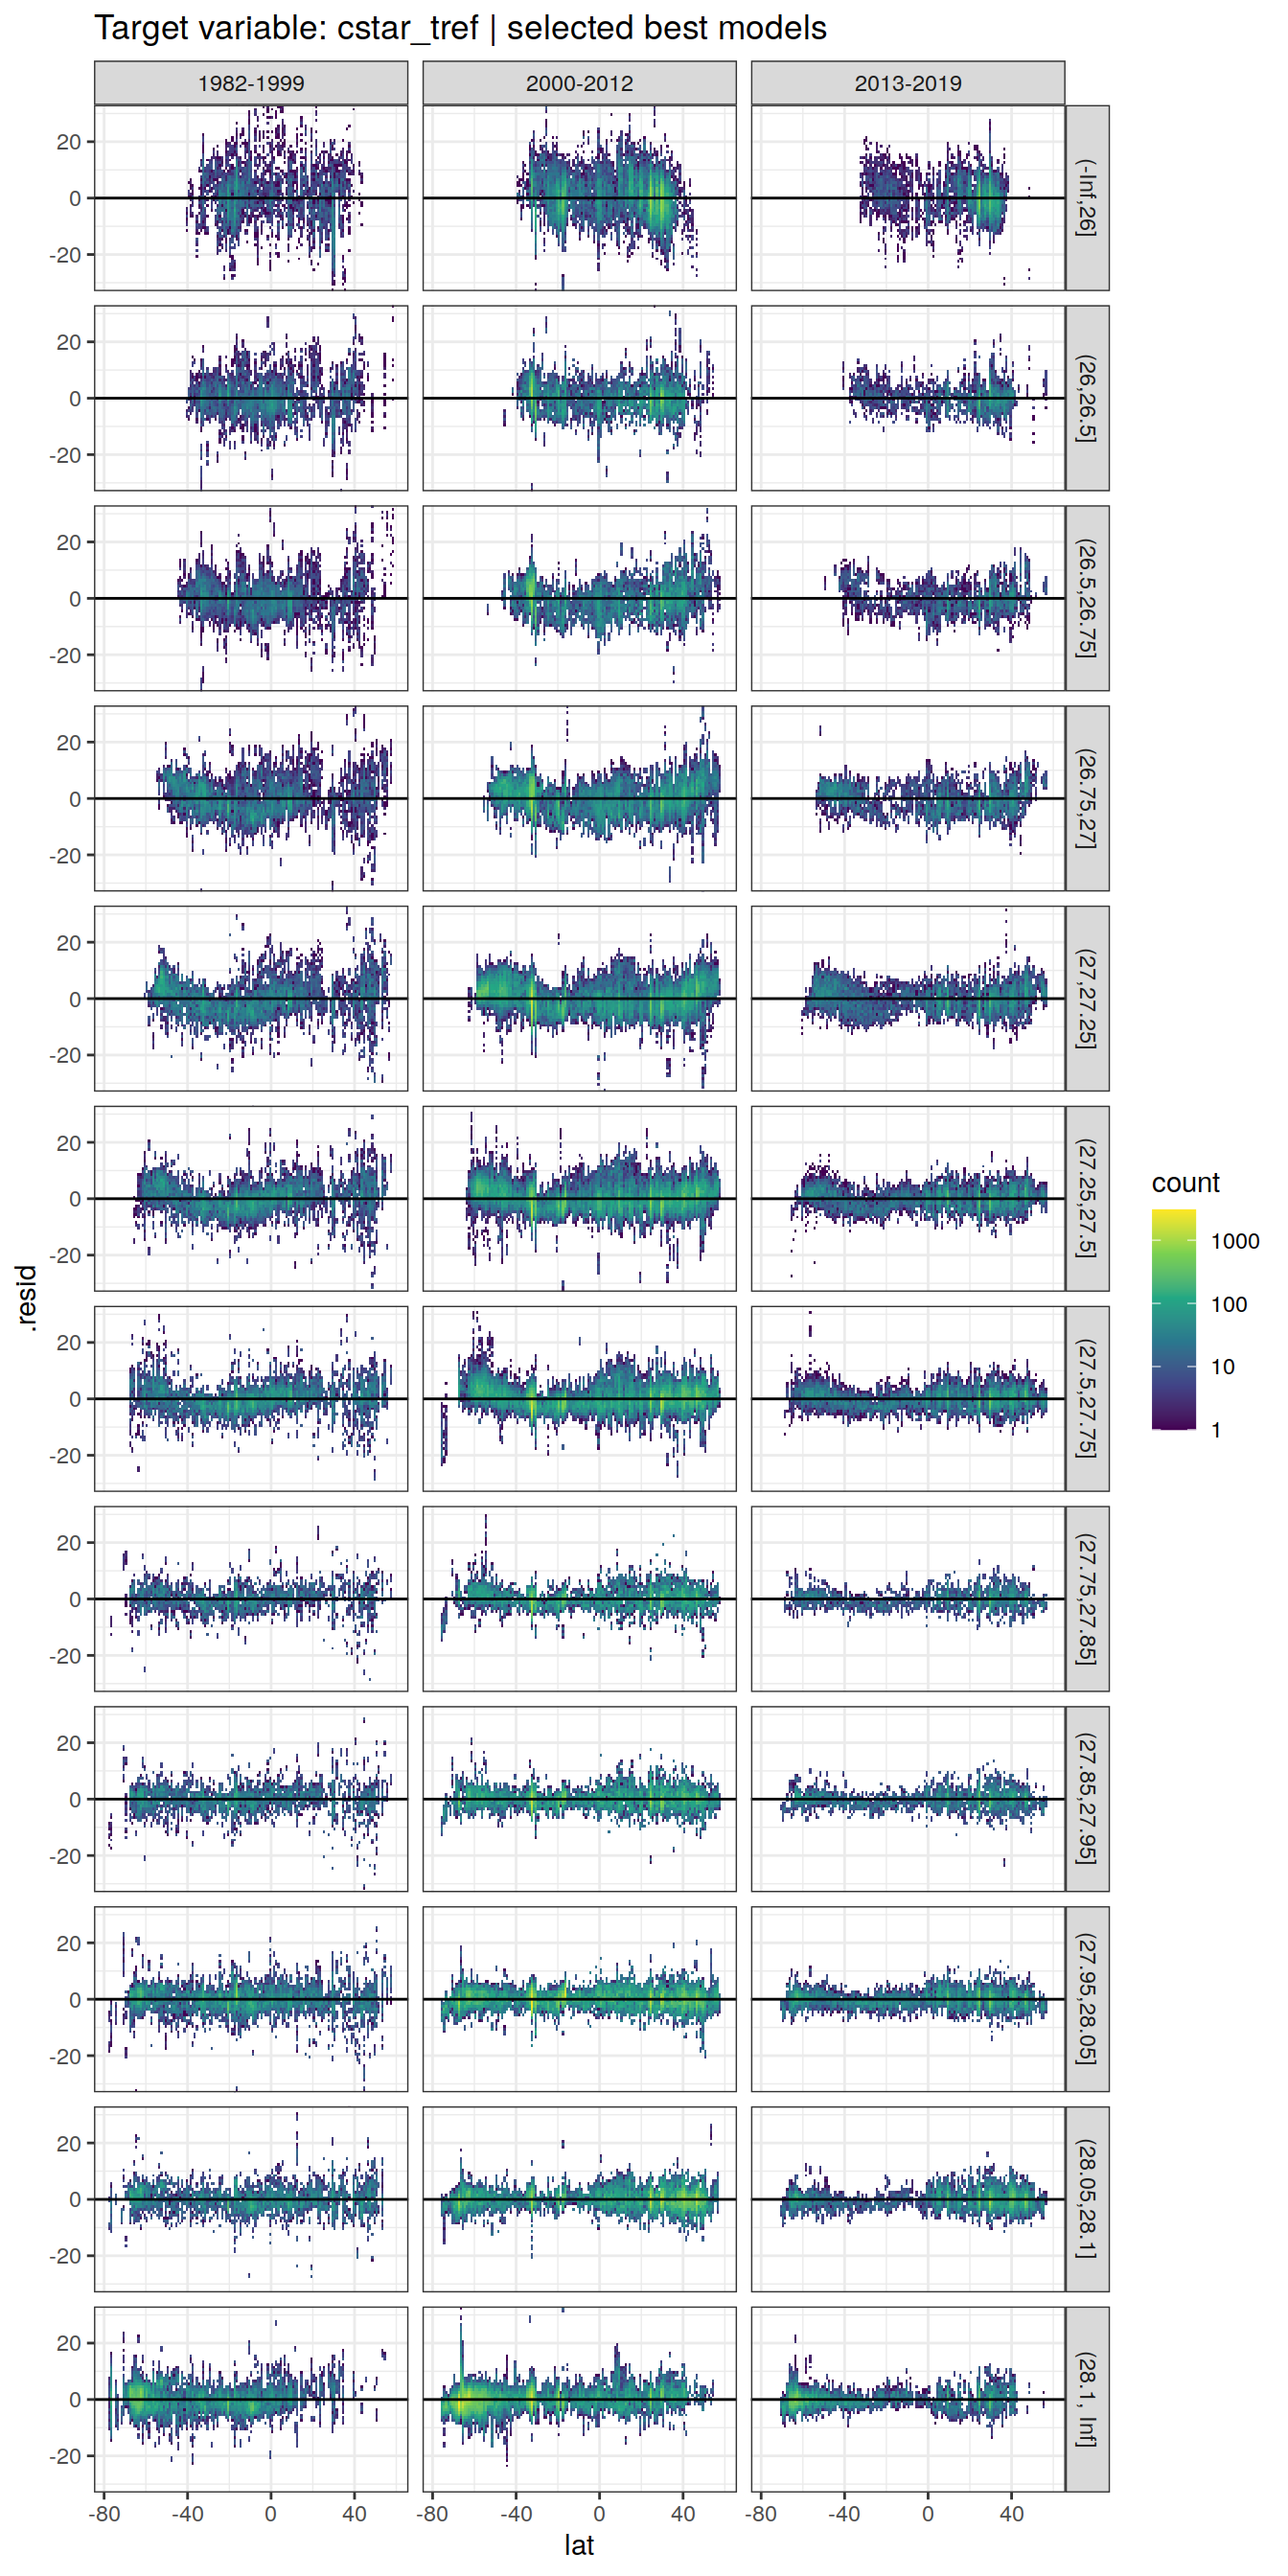
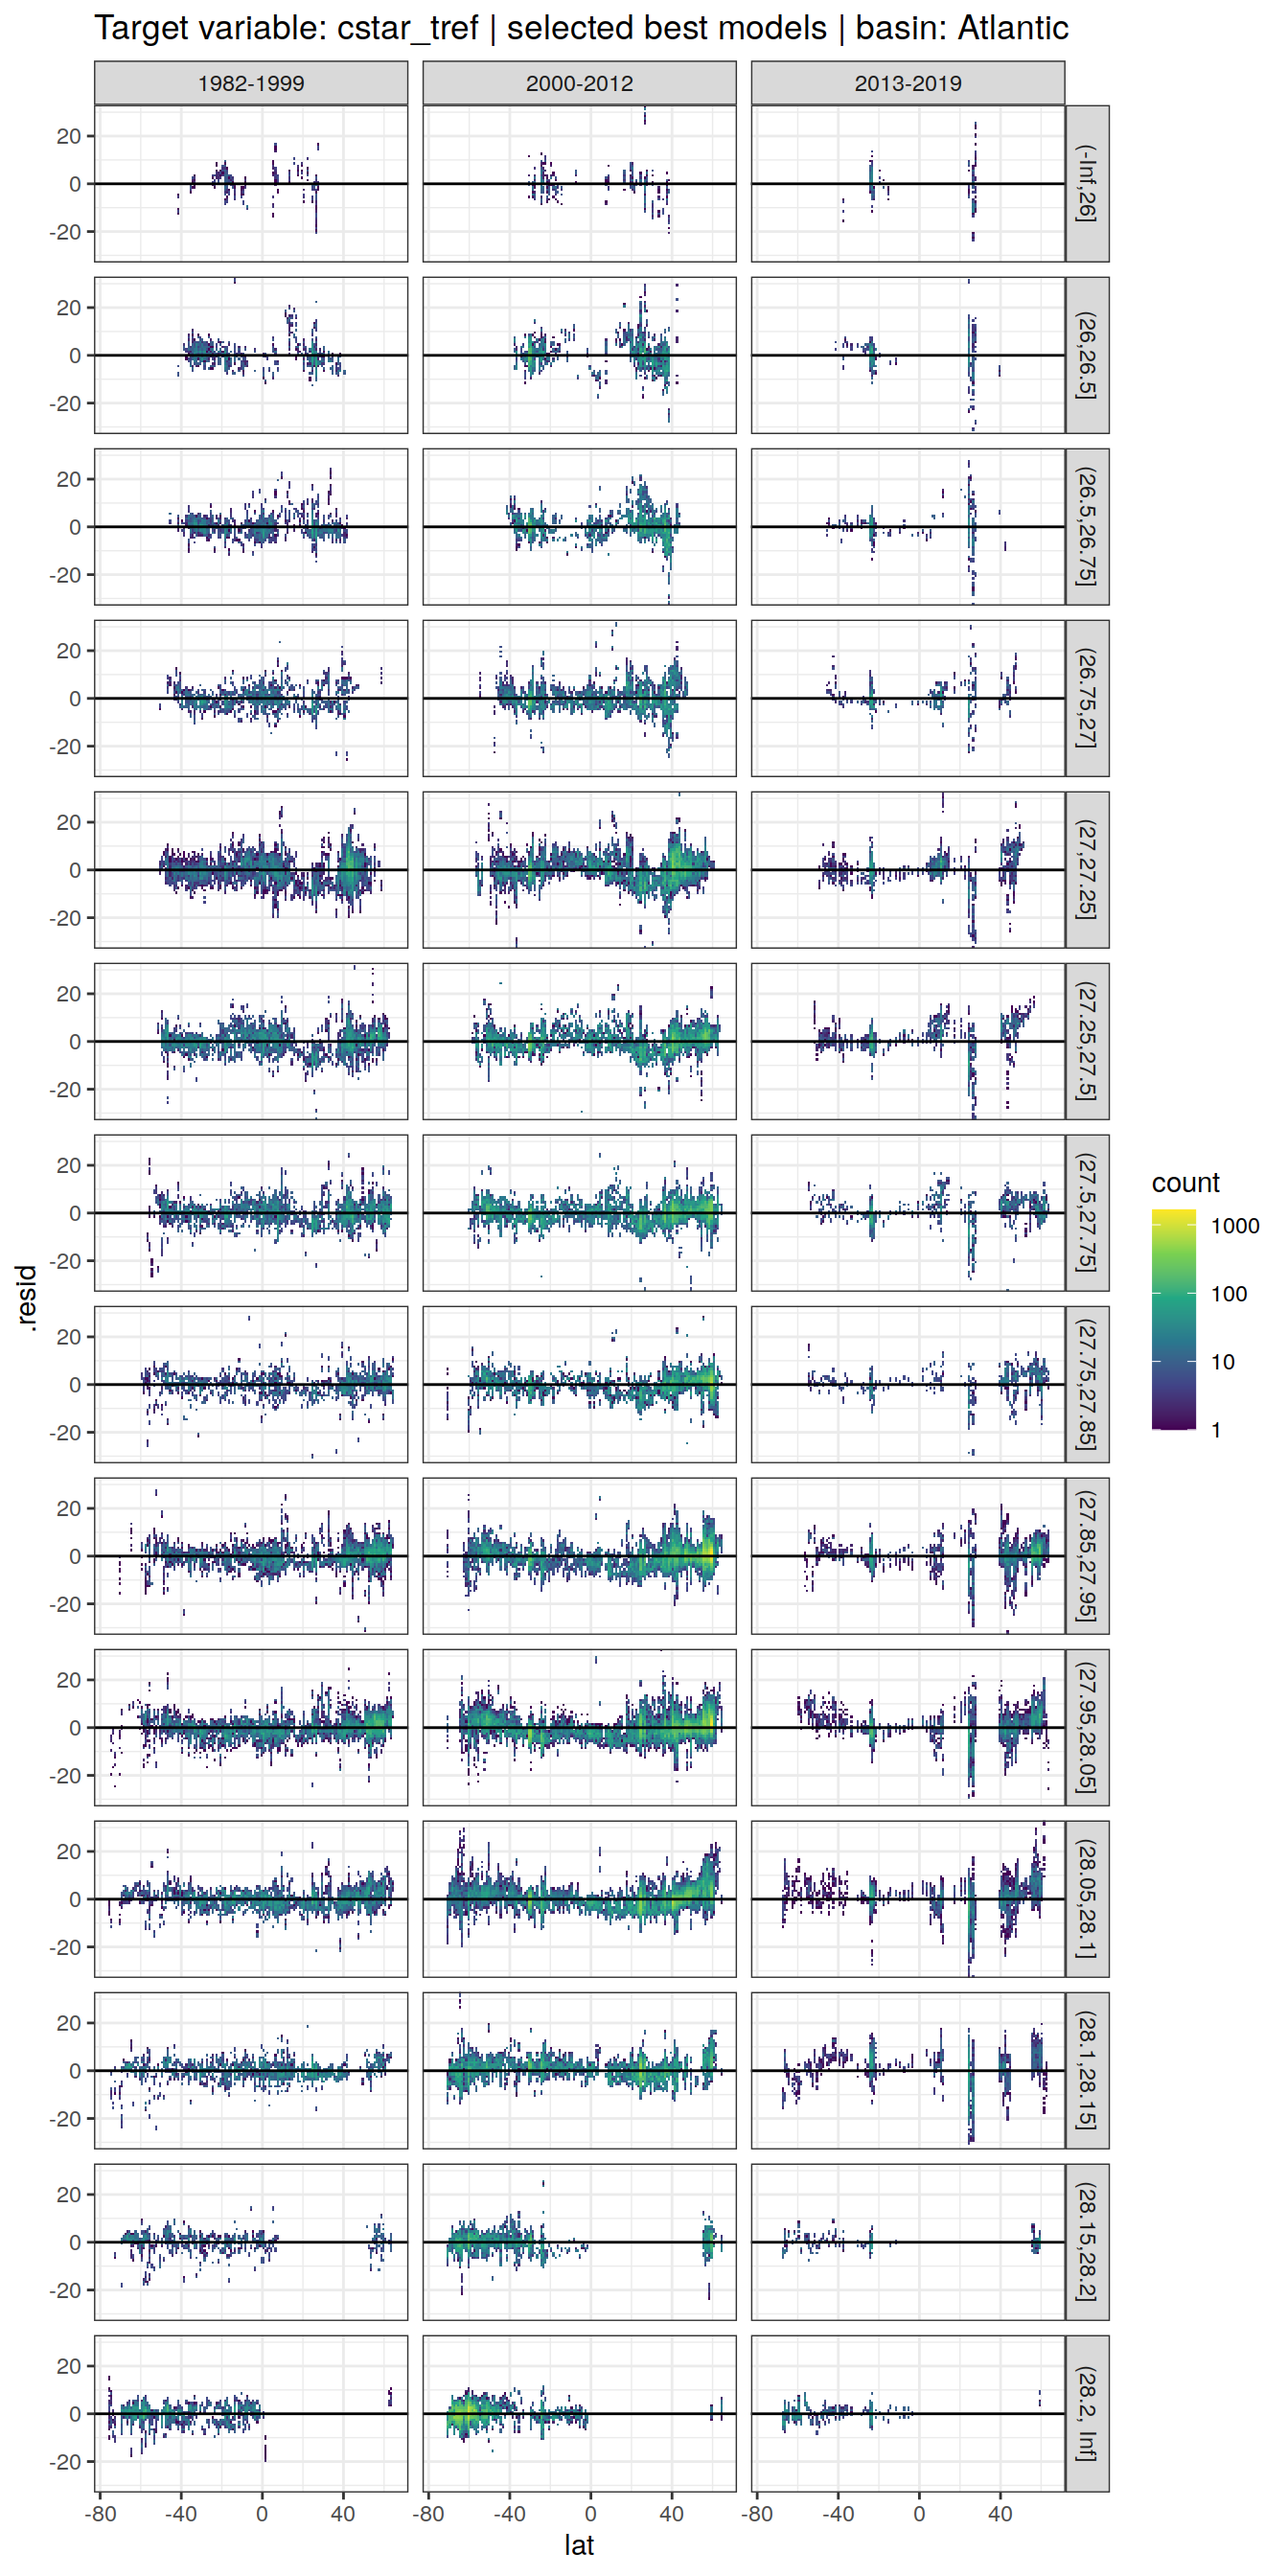
Build site.

diff --git a/docs/eMLR_model_fitting.html b/docs/eMLR_model_fitting.html
@@ -604,16 +604,16 @@ This reproducible <a href="http://rmarkdown.rstudio.com">R Markdown</a> analysis
 <div class="panel panel-default">
 <div class="panel-heading">
 <p class="panel-title">
-<a data-toggle="collapse" data-parent="#workflowr-checks" href="#strongRepositoryversionstrongahrefhttpsgithubcomjensdanielmuelleremlrobsvXXXtreec45672cf9916024c7d44d9a828351bfd61f44a4btargetblankc45672ca"> <span class="glyphicon glyphicon-ok text-success" aria-hidden="true"></span> <strong>Repository version:</strong> <a href="https://github.com/jens-daniel-mueller/emlr_obs_v_XXX/tree/c45672cf9916024c7d44d9a828351bfd61f44a4b" target="_blank">c45672c</a> </a>
+<a data-toggle="collapse" data-parent="#workflowr-checks" href="#strongRepositoryversionstrongahrefhttpsgithubcomjensdanielmuelleremlrobsvXXXtree9ae7d87065c2300a53f0359a45fb2cfa3f6d5213targetblank9ae7d87a"> <span class="glyphicon glyphicon-ok text-success" aria-hidden="true"></span> <strong>Repository version:</strong> <a href="https://github.com/jens-daniel-mueller/emlr_obs_v_XXX/tree/9ae7d87065c2300a53f0359a45fb2cfa3f6d5213" target="_blank">9ae7d87</a> </a>
 </p>
 </div>
[2 lines of base64/hex data omitted]
 <div class="panel-body">
 <p>
 Great! You are using Git for version control. Tracking code development and connecting the code version to the results is critical for reproducibility.
 </p>
 <p>
-The results in this page were generated with repository version <a href="https://github.com/jens-daniel-mueller/emlr_obs_v_XXX/tree/c45672cf9916024c7d44d9a828351bfd61f44a4b" target="_blank">c45672c</a>. See the <em>Past versions</em> tab to see a history of the changes made to the R Markdown and HTML files.
+The results in this page were generated with repository version <a href="https://github.com/jens-daniel-mueller/emlr_obs_v_XXX/tree/9ae7d87065c2300a53f0359a45fb2cfa3f6d5213" target="_blank">9ae7d87</a>. See the <em>Past versions</em> tab to see a history of the changes made to the R Markdown and HTML files.
 </p>
 <p>
 Note that you need to be careful to ensure that all relevant files for the analysis have been committed to Git prior to generating the results (you can use <code>wflow_publish</code> or <code>wflow_git_commit</code>). workflowr only checks the R Markdown file, but you know if there are other scripts or data files that it depends on. Below is the status of the Git repository when the results were generated:
@@ -663,6 +663,40 @@ Message
 </tr>
 </thead>
 <tbody>
+<tr>
+<td>
+Rmd
+</td>
+<td>
+<a href="https://github.com/jens-daniel-mueller/emlr_obs_v_XXX/blob/9ae7d87065c2300a53f0359a45fb2cfa3f6d5213/analysis/eMLR_model_fitting.Rmd" target="_blank">9ae7d87</a>
+</td>
+<td>
+jens-daniel-mueller
+</td>
+<td>
+2021-02-24
+</td>
+<td>
+loop residual plots by basin
+</td>
+</tr>
+<tr>
+<td>
+html
+</td>
+<td>
+<a href="https://rawcdn.githack.com/jens-daniel-mueller/emlr_obs_v_XXX/071743d8e86476364e26746044aa47d1bf4f2c12/docs/eMLR_model_fitting.html" target="_blank">071743d</a>
+</td>
+<td>
+jens-daniel-mueller
+</td>
+<td>
+2021-02-24
+</td>
+<td>
+Build site.
+</td>
+</tr>
 <tr>
 <td>
 Rmd
@@ -18135,6 +18169,43 @@ GLODAP_augmented_best %&gt;%
   geom_bin2d() +
   scale_fill_viridis_c(trans = &quot;log10&quot;)</code></pre>
 <p><img src="figure/eMLR_model_fitting.Rmd/residual_patterns-1.png" width="672" style="display: block; margin: auto;" /></p>
+<p>
+<button type="button" class="btn btn-default btn-xs btn-workflowr btn-workflowr-fig" data-toggle="collapse" data-target="#fig-residual_patterns-1">
+Past versions of residual_patterns-1.png
+</button>
+</p>
+<div id="fig-residual_patterns-1" class="collapse">
+<div class="table-responsive">
+<table class="table table-condensed table-hover">
+<thead>
+<tr>
+<th>
+Version
+</th>
+<th>
+Author
+</th>
+<th>
+Date
+</th>
+</tr>
+</thead>
+<tbody>
+<tr>
+<td>
+<a href="https://github.com/jens-daniel-mueller/emlr_obs_v_XXX/blob/071743d8e86476364e26746044aa47d1bf4f2c12/docs/figure/eMLR_model_fitting.Rmd/residual_patterns-1.png" target="_blank">071743d</a>
+</td>
+<td>
+jens-daniel-mueller
+</td>
+<td>
+2021-02-24
+</td>
+</tr>
+</tbody>
+</table>
+</div>
+</div>
 <pre class="r"><code>i_ylim &lt;- c(-30,30)
 i_binwidth &lt;- 1
 
@@ -18153,6 +18224,43 @@ GLODAP_augmented_best %&gt;%
     )
   )</code></pre>
 <p><img src="figure/eMLR_model_fitting.Rmd/residual_patterns-2.png" width="672" style="display: block; margin: auto;" /></p>
+<p>
+<button type="button" class="btn btn-default btn-xs btn-workflowr btn-workflowr-fig" data-toggle="collapse" data-target="#fig-residual_patterns-2">
+Past versions of residual_patterns-2.png
+</button>
+</p>
+<div id="fig-residual_patterns-2" class="collapse">
+<div class="table-responsive">
+<table class="table table-condensed table-hover">
+<thead>
+<tr>
+<th>
+Version
+</th>
+<th>
+Author
+</th>
+<th>
+Date
+</th>
+</tr>
+</thead>
+<tbody>
+<tr>
+<td>
+<a href="https://github.com/jens-daniel-mueller/emlr_obs_v_XXX/blob/071743d8e86476364e26746044aa47d1bf4f2c12/docs/figure/eMLR_model_fitting.Rmd/residual_patterns-2.png" target="_blank">071743d</a>
+</td>
+<td>
+jens-daniel-mueller
+</td>
+<td>
+2021-02-24
+</td>
+</tr>
+</tbody>
+</table>
+</div>
+</div>
 <pre class="r"><code>GLODAP_augmented_best %&gt;%
   ggplot(aes(lat, .resid)) +
   geom_bin2d(binwidth = i_binwidth) +
@@ -18168,25 +18276,152 @@ GLODAP_augmented_best %&gt;%
     )
   )</code></pre>
 <p><img src="figure/eMLR_model_fitting.Rmd/residual_patterns-3.png" width="672" style="display: block; margin: auto;" /></p>
+<p>
+<button type="button" class="btn btn-default btn-xs btn-workflowr btn-workflowr-fig" data-toggle="collapse" data-target="#fig-residual_patterns-3">
+Past versions of residual_patterns-3.png
+</button>
+</p>
+<div id="fig-residual_patterns-3" class="collapse">
+<div class="table-responsive">
+<table class="table table-condensed table-hover">
+<thead>
+<tr>
+<th>
+Version
+</th>
+<th>
+Author
+</th>
+<th>
+Date
+</th>
+</tr>
+</thead>
+<tbody>
+<tr>
+<td>
+<a href="https://github.com/jens-daniel-mueller/emlr_obs_v_XXX/blob/071743d8e86476364e26746044aa47d1bf4f2c12/docs/figure/eMLR_model_fitting.Rmd/residual_patterns-3.png" target="_blank">071743d</a>
+</td>
+<td>
+jens-daniel-mueller
+</td>
+<td>
+2021-02-24
+</td>
+</tr>
+</tbody>
+</table>
+</div>
+</div>
 </div>
 <div id="by-model-domain" class="section level3" number="7.5.2">
 <h3 number="7.5.2"><span class="header-section-number">7.5.2</span> By model domain</h3>
-<pre class="r"><code>GLODAP_augmented_best %&gt;%
-  filter(basin == unique(GLODAP_augmented_best$basin)[2]) %&gt;% 
-  ggplot(aes(lat, .resid)) +
-  geom_bin2d(binwidth = i_binwidth) +
-  geom_hline(yintercept = 0, col = &quot;black&quot;) +
-  scale_fill_viridis_c(trans = &quot;log10&quot;) +
-  facet_grid(gamma_slab ~ era) +
-  coord_cartesian(ylim = i_ylim) +
-  labs(
-    title = paste(
-      &quot;Target variable:&quot;,
-      params_local$MLR_target,
-      &quot;| selected best models&quot;
-    )
-  )</code></pre>
+<pre class="r"><code># GLODAP_augmented_best %&gt;%
+#   filter(basin == unique(GLODAP_augmented_best$basin)[2]) %&gt;% 
+#   ggplot(aes(lat, .resid)) +
+#   geom_bin2d(binwidth = i_binwidth) +
+#   geom_hline(yintercept = 0, col = &quot;black&quot;) +
+#   scale_fill_viridis_c(trans = &quot;log10&quot;) +
+#   facet_grid(gamma_slab ~ era) +
+#   coord_cartesian(ylim = i_ylim) +
+#   labs(
+#     title = paste(
+#       &quot;Target variable:&quot;,
+#       params_local$MLR_target,
+#       &quot;| selected best models&quot;
+#     )
+#   )
+
+
+# GLODAP_augmented_best_plot &lt;- GLODAP_augmented_best %&gt;%
+#   group_by(basin) %&gt;%
+#   nest() %&gt;%
+#   mutate(
+#     plot = map2(
+#       data,
+#       basin,
+#       ~   ggplot(data = .x, aes(lat, .resid)) +
+#         geom_bin2d(binwidth = i_binwidth) +
+#         geom_hline(yintercept = 0, col = &quot;black&quot;) +
+#         scale_fill_viridis_c(trans = &quot;log10&quot;) +
+#         facet_grid(gamma_slab ~ era) +
+#         coord_cartesian(ylim = i_ylim) +
+#         labs(
+#           title = paste(
+#             &quot;Target variable:&quot;,
+#             params_local$MLR_target,
+#             &quot;| selected best models | basin:&quot;,
+#             .y
+#           )
+#         )
+#     )
+#   )
+# 
+# GLODAP_augmented_best_plot$plot[1]
+
+
+
+map(
+  unique(GLODAP_augmented_best$basin),
+    ~   GLODAP_augmented_best %&gt;% 
+    filter(basin == .x) %&gt;% 
+    ggplot(aes(lat, .resid)) +
+      geom_bin2d(binwidth = i_binwidth) +
+      geom_hline(yintercept = 0, col = &quot;black&quot;) +
+      scale_fill_viridis_c(trans = &quot;log10&quot;) +
+      facet_grid(gamma_slab ~ era) +
+      coord_cartesian(ylim = i_ylim) +
+      labs(
+        title = paste(
+          &quot;Target variable:&quot;,
+          params_local$MLR_target,
+          &quot;| selected best models | basin:&quot;,
+          .x
+        )
+      )
+)</code></pre>
+<pre><code>[[1]]</code></pre>
 <p><img src="figure/eMLR_model_fitting.Rmd/residual_patterns_by_model_domain-1.png" width="672" style="display: block; margin: auto;" /></p>
+<p>
+<button type="button" class="btn btn-default btn-xs btn-workflowr btn-workflowr-fig" data-toggle="collapse" data-target="#fig-residual_patterns_by_model_domain-1">
+Past versions of residual_patterns_by_model_domain-1.png
+</button>
+</p>
+<div id="fig-residual_patterns_by_model_domain-1" class="collapse">
+<div class="table-responsive">
+<table class="table table-condensed table-hover">
+<thead>
+<tr>
+<th>
+Version
+</th>
+<th>
+Author
+</th>
+<th>
+Date
+</th>
+</tr>
+</thead>
+<tbody>
+<tr>
+<td>
+<a href="https://github.com/jens-daniel-mueller/emlr_obs_v_XXX/blob/071743d8e86476364e26746044aa47d1bf4f2c12/docs/figure/eMLR_model_fitting.Rmd/residual_patterns_by_model_domain-1.png" target="_blank">071743d</a>
+</td>
+<td>
+jens-daniel-mueller
+</td>
+<td>
+2021-02-24
+</td>
+</tr>
+</tbody>
+</table>
+</div>
+</div>
+<pre><code>
+[[2]]</code></pre>
+<p><img src="figure/eMLR_model_fitting.Rmd/residual_patterns_by_model_domain-2.png" width="672" style="display: block; margin: auto;" /></p>
 <br>
 <p>
 <button type="button" class="btn btn-default btn-workflowr btn-workflowr-sessioninfo" data-toggle="collapse" data-target="#workflowr-sessioninfo" style="display: block;">
